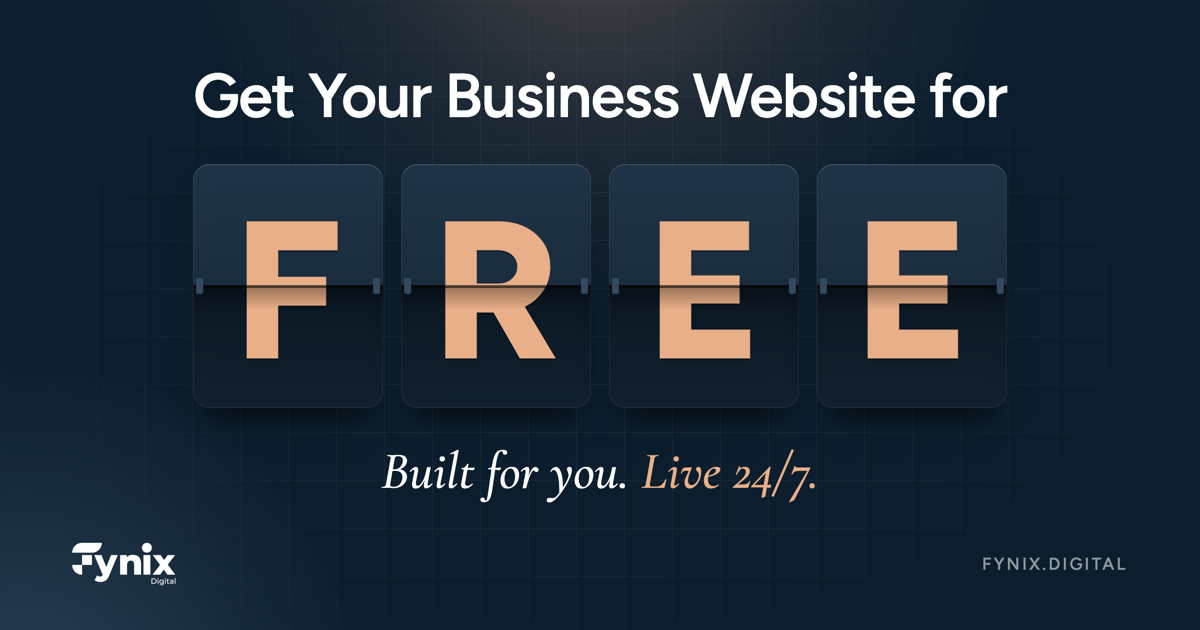
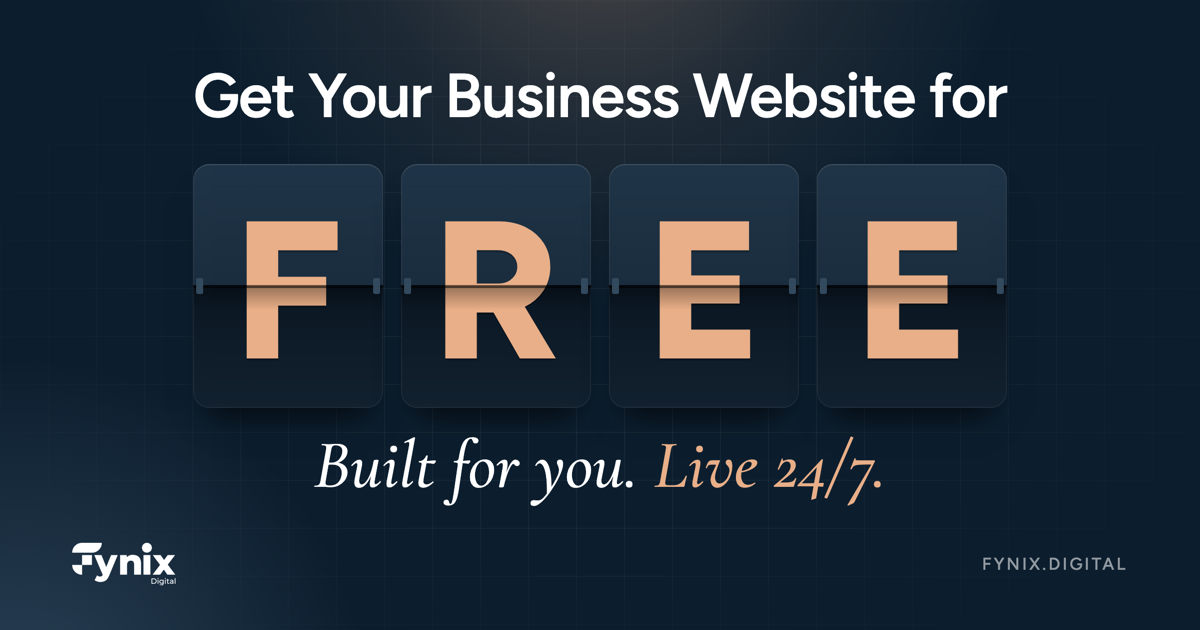
Free business website share card: larger tagline
In the WhatsApp preview the card shows at about 550px wide. At that size
the 52px "Built for you. Live 24/7." read as small print under FREE.
It is now 68px.

The image URL gains ?v=2. WhatsApp and LinkedIn cache previews by image
URL, so the new card only shows once the URL changes.

Changed region(s): [[0.2467, 0.6937, 0.74, 0.8143]]

diff --git a/components/free-business-website/FreeWebsitePage.tsx b/components/free-business-website/FreeWebsitePage.tsx
@@ -16,7 +16,8 @@ import { FREE_WEBSITE_CONTENT, MARKET_PATHS, type Market, signUpUrl } from "@/li
 
 /** The share card both markets use: "Get Your Business Website for FREE" with FREE in split-flap tiles. */
 const SHARE_IMAGE = {
-  url: `${siteConfig.url}/free-business-website/og-card.png`,
+  // Bump the version when the image changes: WhatsApp and LinkedIn cache previews by image URL.
+  url: `${siteConfig.url}/free-business-website/og-card.png?v=2`,
   width: 1200,
   height: 630,
   alt: "Get your business website for free. Built for you. Live 24/7. Fynix Digital",
